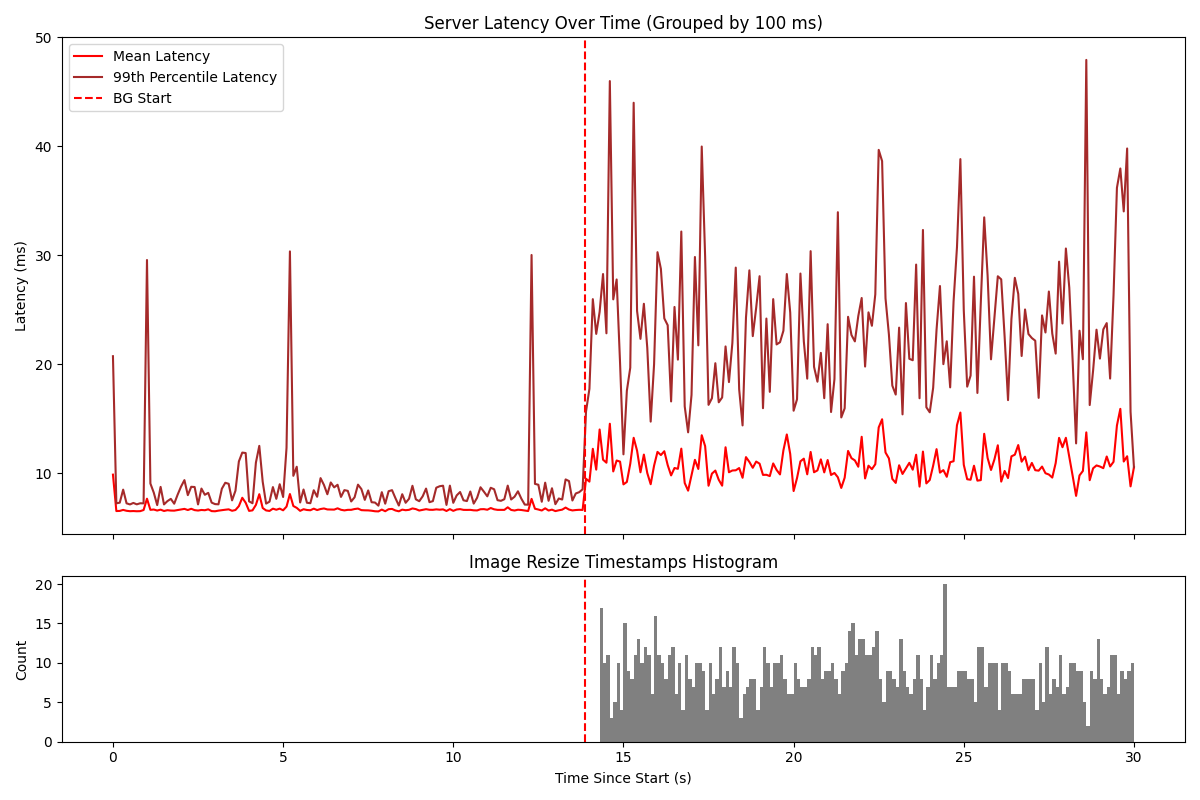
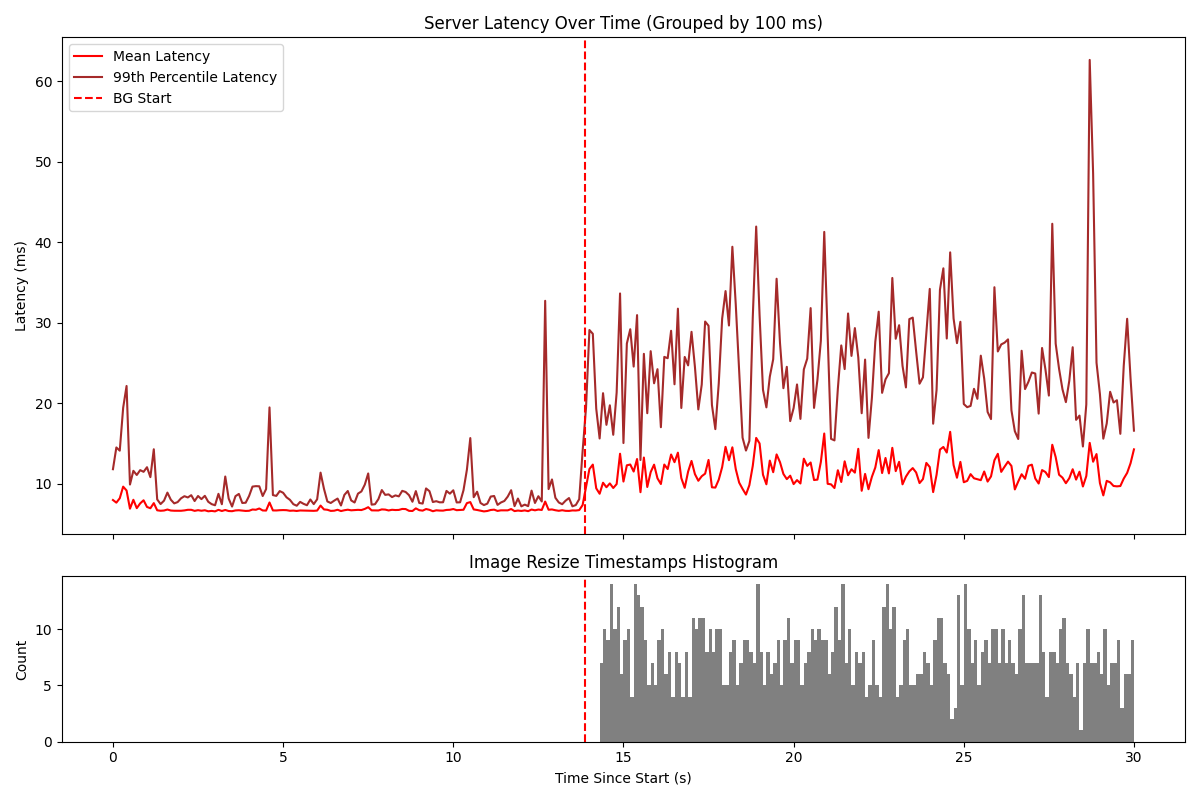
copied over new kubernetes graphs

diff --git a/smth26/eval.tex b/smth26/eval.tex
@@ -69,11 +69,11 @@ meaning that it succesfully found and stole a queued and waiting LC thread.
 We also run the Kubernetes application from \autoref{fig:kubernetes-unedited}
 using \schedbe{}. We do this by explicitly setting the scheduling policy in the
 BE code, rather than editing Kubernetes to change how it uses the \cgroups{}
-API. The results are in \autoref{fig:kubernetes-schedbe}, we can see that, as
-desired above, \schedbe{} completely gets rid of the latency jump, and the
-latency profile of the web application is the same before and after starting the
-image resize job.
-
+API. The results are in \autoref{fig:kubernetes-schedbe}. We can see that, just
+as in the microbenchmark, the latency profile of the web application looks
+largely the same before and after starting the image resize job. It is not
+entirely without spikes, but the spikes are the same before and after starting
+the BE tasks and the baseline median latency stays stable. 
 
 \subsection{Is parking necessary?}\label{ss:eval:parking}
 
